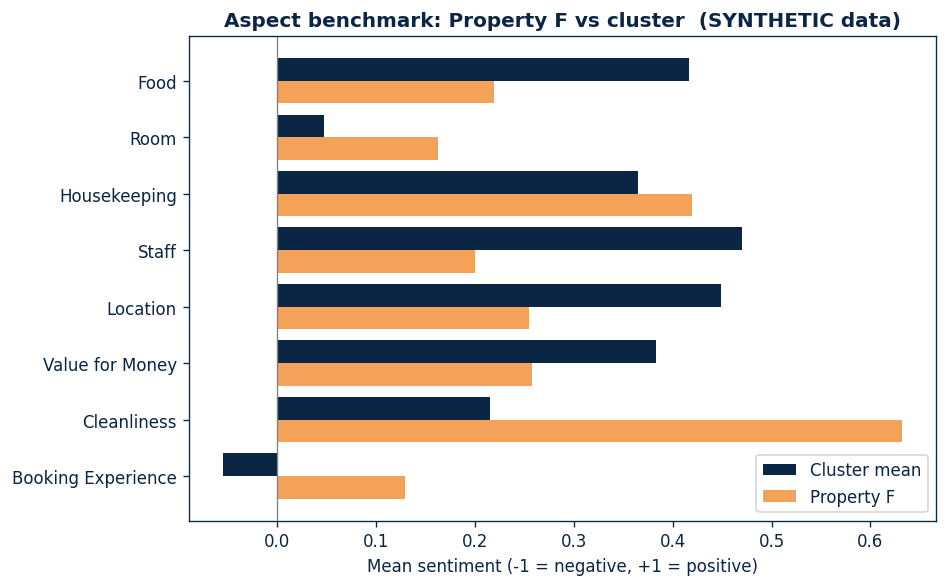
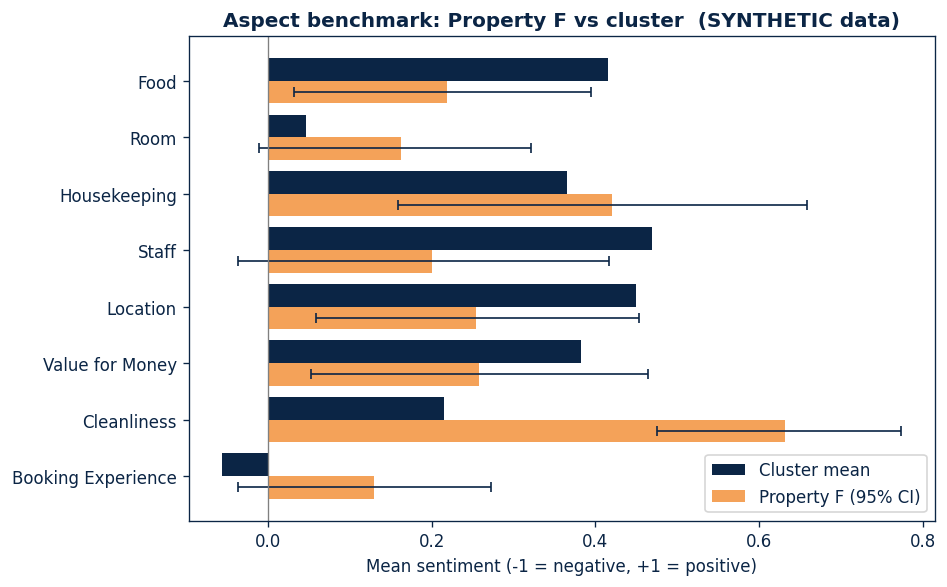
fix(figures): draw the detected changepoint, not the ground truth
- trend.png marked 'Detected changepoint' at the injected constant; it now
  plots the detector's result and shows the ground truth separately, labelled
- quadrant.png colours aspects by the tested scope instead of a hard-coded
  0.6 cut, with readable labels
- benchmark.png shows the review-bootstrap 95% CIs behind the lead/lag flags
(approved edit to an [R]-owned file)

diff --git a/scripts/make_figures.py b/scripts/make_figures.py
@@ -13,11 +13,14 @@ import matplotlib
 matplotlib.use("Agg")
 import matplotlib.pyplot as plt  # noqa: E402
 import numpy as np  # noqa: E402
+import pandas as pd  # noqa: E402
 
 from cri.benchmark import (  # noqa: E402
+    MARKET_WIDE_FRACTION,
     aspect_scores,
     benchmark_vs_cluster,
     cluster_means,
+    detect_changepoints,
     market_wide_summary,
     monthly_series,
 )
@@ -27,6 +30,7 @@ from cri.pipeline import label_reviews  # noqa: E402
 NAVY = "#0B2545"
 AMBER = "#F4A259"
 TEAL = "#2A9D8F"
+GREY = "#9AA5B1"
 OUT = Path("docs/img")
 
 plt.rcParams.update(
@@ -57,7 +61,9 @@ def fig_benchmark(labelled, prop="Property F"):
     y = np.arange(len(ASPECTS))
     fig, ax = plt.subplots(figsize=(8, 5))
     ax.barh(y - 0.2, sub["cluster_mean"], height=0.4, color=NAVY, label="Cluster mean")
-    ax.barh(y + 0.2, sub["mean"], height=0.4, color=AMBER, label=prop)
+    err = np.vstack([sub["mean"] - sub["ci_low"], sub["ci_high"] - sub["mean"]]).clip(min=0)
+    ax.barh(y + 0.2, sub["mean"], height=0.4, color=AMBER, label=f"{prop} (95% CI)",
+            xerr=err, error_kw={"ecolor": NAVY, "capsize": 3, "lw": 1})
     ax.set_yticks(y)
     ax.set_yticklabels(ASPECTS)
     ax.axvline(0, color="grey", lw=0.8)
@@ -89,12 +95,21 @@ def fig_heatmap(labelled):
 def fig_trend(labelled, prop="Property F", aspect="Food"):
     series = monthly_series(labelled, prop, aspect)
     fig, ax = plt.subplots(figsize=(9, 4.5))
-    ax.plot(series.index, series.values, marker="o", color=TEAL, label=f"{prop} - {aspect}")
+    ax.plot(series.index, series.to_numpy(), marker="o", color=TEAL, label=f"{prop} - {aspect}")
     ax.axhline(0, color="grey", lw=0.8)
-    ax.axvline(
-        FOOD_DECLINE_MONTH, color=AMBER, lw=2, ls="--",
-        label=f"Detected changepoint ({FOOD_DECLINE_MONTH:%Y-%m})",
-    )
+    # Ground truth is drawn separately and labelled as such; the marker below is
+    # what the detector actually found (or a note when it found nothing).
+    ax.axvline(FOOD_DECLINE_MONTH, color=GREY, lw=1, ls=":",
+               label=f"Injected change ({FOOD_DECLINE_MONTH:%Y-%m}, SYNTHETIC ground truth)")
+    cps = detect_changepoints(labelled)
+    found = cps[(cps["property_id"] == prop) & (cps["aspect"] == aspect)]
+    if found.empty:
+        ax.text(0.99, 0.95, "No significant changepoint detected", transform=ax.transAxes,
+                ha="right", va="top", fontsize=9, color=NAVY)
+    else:
+        row = found.iloc[0]
+        ax.axvline(pd.Timestamp(f"{row['change_month']}-01"), color=AMBER, lw=2, ls="--",
+                   label=f"Detected changepoint ({row['change_month']}, q={row['q_value']:.1g})")
     ax.set_ylabel("Monthly mean sentiment")
     ax.set_ylim(-1.1, 1.1)
     ax.set_title(f"Trend + changepoint: {prop} {aspect}  (SYNTHETIC data)")
@@ -105,22 +120,32 @@ def fig_trend(labelled, prop="Property F", aspect="Food"):
 def fig_quadrant(labelled):
     cmeans = cluster_means(aspect_scores(labelled))
     summary = market_wide_summary(labelled).set_index("aspect")
-    n_props = labelled["property_id"].nunique()
 
+    # Colour comes from the statistically tested scope, not from the y position.
+    colours = {"market-wide": AMBER, "property-specific": TEAL, "undetermined": GREY}
     fig, ax = plt.subplots(figsize=(8, 6))
-    for aspect in ASPECTS:
-        x = cmeans.get(aspect, 0.0)
-        y = summary["n_properties"].get(aspect, 0) / n_props
-        market = y >= 0.6
-        ax.scatter(x, y, s=120, color=AMBER if market else TEAL, edgecolor=NAVY, zorder=3)
-        ax.annotate(aspect, (x, y), textcoords="offset points", xytext=(6, 4), fontsize=8)
-    ax.axhline(0.6, color="grey", ls="--", lw=1)
-    ax.text(0.02, 0.63, "market-wide (shared across cluster)", transform=ax.get_yaxis_transform(),
-            fontsize=8, color=NAVY)
-    ax.text(0.02, 0.5, "property-specific", transform=ax.get_yaxis_transform(),
-            fontsize=8, color=NAVY)
+    points = sorted(
+        (float(cmeans.get(a, 0.0)), float(summary["fraction"].get(a, 0.0)), a) for a in ASPECTS
+    )
+    placed: list[tuple[float, float]] = []
+    for x, y, aspect in points:
+        scope = summary["scope"].get(aspect, "stable")
+        ax.scatter(x, y, s=120, color=colours.get(scope, "white"), edgecolor=NAVY, zorder=3)
+        # Stagger labels of points that sit close together so they stay readable.
+        crowd = sum(1 for px, py in placed if abs(px - x) < 0.06 and abs(py - y) < 0.05)
+        placed.append((x, y))
+        ax.annotate(aspect, (x, y), textcoords="offset points", fontsize=8,
+                    xytext=(6, 6 + 13 * crowd), ha="left",
+                    arrowprops={"arrowstyle": "-", "color": GREY, "lw": 0.6} if crowd else None)
+    ax.axhline(MARKET_WIDE_FRACTION, color="grey", ls="--", lw=1)
+    ax.text(0.02, MARKET_WIDE_FRACTION + 0.03,
+            "market-wide needs >= 60% sharing a significant pattern",
+            transform=ax.get_yaxis_transform(), fontsize=8, color=NAVY)
+    for label, colour in [*colours.items(), ("stable (no significant shift)", "white")]:
+        ax.scatter([], [], s=80, color=colour, edgecolor=NAVY, label=label)
+    ax.legend(loc="center right", fontsize=8, frameon=False)
     ax.set_xlabel("Cluster mean sentiment for the aspect")
-    ax.set_ylabel("Share of properties showing a negative shift")
+    ax.set_ylabel("Share of properties affected by a significant negative shift")
     ax.set_ylim(-0.05, 1.05)
     ax.set_title("Market-wide vs property-specific  (SYNTHETIC data)")
     _save(fig, "quadrant.png")
